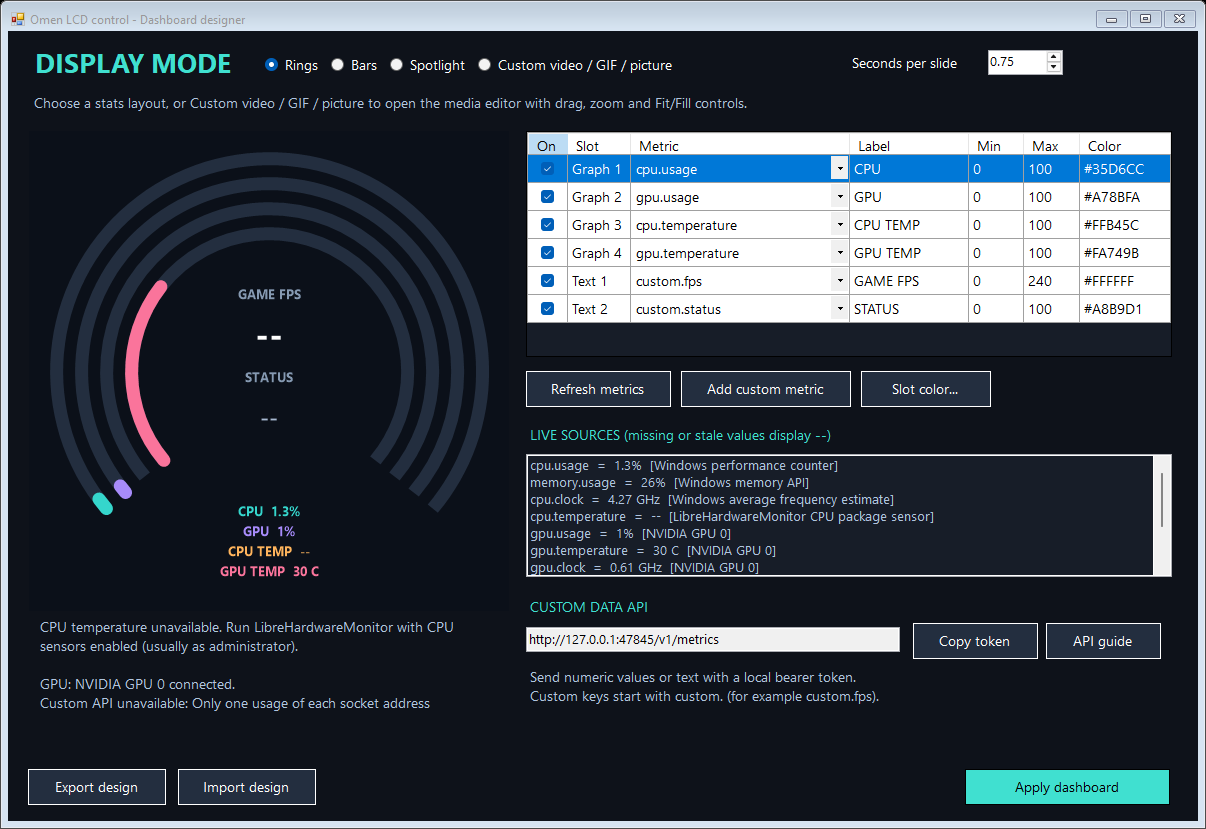
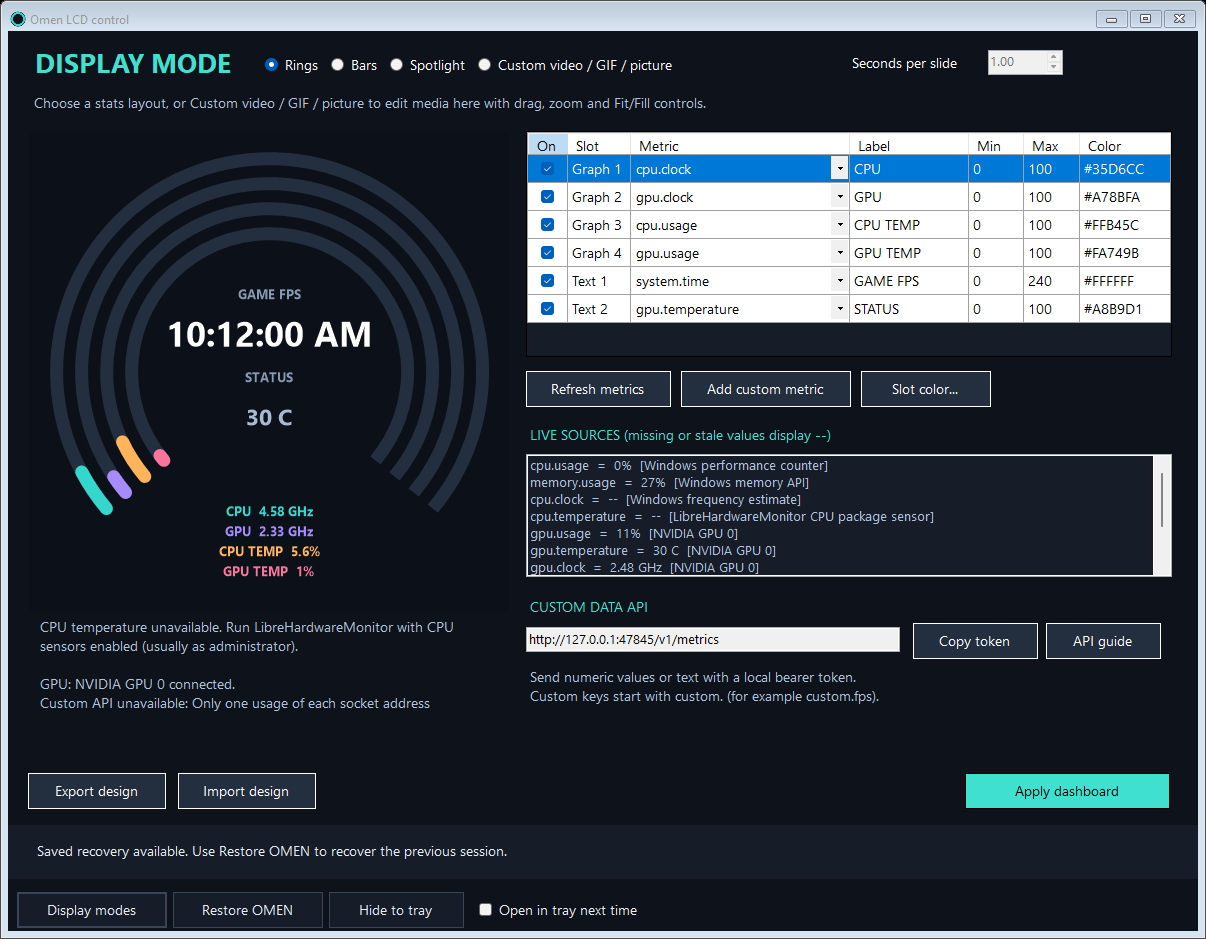
fixed the video panel opening a window

diff --git a/src/MainForm.cs b/src/MainForm.cs
@@ -23,6 +23,7 @@ namespace OmenLCDControl {
         private readonly CheckBox startInTray;
         private readonly System.Windows.Forms.Timer statsTimer;
         private DashboardRuntime dashboard;
+        private readonly DashboardForm studio;
         private readonly Stopwatch dashboardClock = Stopwatch.StartNew();
         private CancellationTokenSource operation;
         private string source;
@@ -43,7 +44,7 @@ namespace OmenLCDControl {
             state.Transform.Fps = Math.Max(1, Math.Min(30, state.Transform.Fps));
             preview.Transform = state.Transform;
             Text = "Omen LCD control"; Font = new Font("Segoe UI", 10); ForeColor = Color.FromArgb(231, 237, 246);
-            BackColor = Color.FromArgb(14, 18, 26); ClientSize = new Size(1030, 700); MinimumSize = new Size(950, 700);
+            BackColor = Color.FromArgb(14, 18, 26); ClientSize = new Size(1190, 900); MinimumSize = new Size(1130, 820);
             AutoScaleMode = AutoScaleMode.Dpi; StartPosition = FormStartPosition.CenterScreen;
             Icon = CreateIcon(); AllowDrop = true;
 
@@ -55,7 +56,7 @@ namespace OmenLCDControl {
             Controls.Add(status);
             var content = new Panel { Dock = DockStyle.Fill, Padding = new Padding(20, 6, 20, 16) };
             Controls.Add(content); content.BringToFront();
-            var sidebar = new Panel { Dock = DockStyle.Right, Width = 320, BackColor = PanelColor, Padding = new Padding(16) };
+            var sidebar = new Panel { AutoScroll = true, AutoScrollMinSize = new Size(304, 515), Dock = DockStyle.Right, Width = 320, BackColor = PanelColor, Padding = new Padding(16) };
             content.Controls.Add(sidebar);
             var canvasArea = new Panel { Dock = DockStyle.Fill, Padding = new Padding(0, 0, 18, 0) };
             content.Controls.Add(canvasArea); canvasArea.BringToFront();
@@ -79,16 +80,25 @@ namespace OmenLCDControl {
             AddLabel(sidebar, "Horizontal", 309, false).Width = 130; var yl = AddLabel(sidebar, "Vertical", 309, false); yl.Left = 166; yl.Width = 130;
             x = AddNumber(sidebar, 16, 337, -480, 480, state.Transform.OffsetX); y = AddNumber(sidebar, 166, 337, -480, 480, state.Transform.OffsetY);
             x.AccessibleName = "Horizontal offset in screen pixels"; y.AccessibleName = "Vertical offset in screen pixels";
-            AddLabel(sidebar, "Playback FPS", 383, false); fps = AddNumber(sidebar, 166, 379, 1, 30, state.Transform.Fps); fps.AccessibleName = "Playback frame rate";
+            AddLabel(sidebar, "Playback FPS", 383, false).Width = 140; fps = AddNumber(sidebar, 166, 379, 1, 30, state.Transform.Fps); fps.AccessibleName = "Playback frame rate";
             apply = AddButton(sidebar, "Apply to cooler screen", 427, 288, true);
             cancel = AddButton(sidebar, "Cancel conversion", 476, 288, false); cancel.Visible = false;
 
-            var tools = new FlowLayoutPanel { Dock = DockStyle.Bottom, Height = 88, Padding = new Padding(6, 10, 6, 0), BackColor = BackColor };
+            var tools = new FlowLayoutPanel { Dock = DockStyle.Bottom, Height = 52, Padding = new Padding(6, 10, 6, 0), BackColor = BackColor };
             stats = new Button { Text = "Display modes", Width = 150, Height = 36 }; StyleButton(stats, false); tools.Controls.Add(stats);
             restore = new Button { Text = "Restore OMEN", Width = 150, Height = 36 }; StyleButton(restore, false); tools.Controls.Add(restore);
             var hide = new Button { Text = "Hide to tray", Width = 135, Height = 36 }; StyleButton(hide, false); tools.Controls.Add(hide);
             startInTray = new CheckBox { Text = "Open in tray next time", AutoSize = true, Margin = new Padding(12, 10, 3, 3), Checked = state.StartInTray }; tools.Controls.Add(startInTray);
-            canvasArea.Controls.Add(tools); preview.BringToFront();
+            Controls.Add(tools); preview.BringToFront();
+            header.Dispose();
+            dashboard = new DashboardRuntime();
+            studio = new DashboardForm(dashboard, state.Dashboard, async config => {
+                if (busy) throw new InvalidOperationException("Wait for the current operation to finish.");
+                var previous = state.Dashboard;
+                try { state.Dashboard = config; await StartStats(); Save(); }
+                catch { state.Dashboard = previous; throw; }
+            }, content) { Dock = DockStyle.Fill };
+            Controls.Add(studio); studio.BringToFront();
 
             var menu = new ContextMenuStrip(); menu.Items.Add("Open editor", null, (s, e) => ShowEditor());
             menu.Items.Add("Restore OMEN", null, async (s, e) => await Restore()); menu.Items.Add(new ToolStripSeparator());
@@ -182,7 +192,7 @@ namespace OmenLCDControl {
             finally { operation.Dispose(); operation = null; SetBusy(false); }
         }
         private async Task Restore() {
-            if (busy) return; SetBusy(true);
+            if (busy || studio.IsApplying) return; SetBusy(true);
             try { await statsWork; await Task.Run(() => backend.Restore()); statsTimer.Stop(); tray.Text = "Omen LCD control"; SetStatus("Original OMEN settings restored."); }
             catch (Exception e) { Error(e); } finally { SetBusy(false); }
         }
@@ -197,24 +207,9 @@ namespace OmenLCDControl {
         private void DrawStats() {
             using (var image = DashboardRenderer.Render(state.Dashboard, dashboard.Hub.Snapshot(), dashboardClock.Elapsed.TotalSeconds, DateTime.UtcNow)) DashboardRenderer.SaveAtomic(image, livePath);
         }
-        private void ShowDashboard(bool selectMediaForSmoke = false) {
-            if (busy) return;
-            if (dashboard == null) dashboard = new DashboardRuntime();
-            using (var designer = new DashboardForm(dashboard, state.Dashboard, async config => {
-                if (busy) throw new InvalidOperationException("Wait for the current operation to finish.");
-                var previous = state.Dashboard;
-                try { state.Dashboard = config; await StartStats(); Save(); }
-                catch { state.Dashboard = previous; throw; }
-            })) {
-                if (selectMediaForSmoke) designer.Shown += (s,e) => designer.BeginInvoke((Action)designer.SelectCustomMediaForSmoke);
-                if (designer.ShowDialog(this) == DialogResult.Retry) {
-                    ShowEditor(); open.Focus();
-                    SetStatus("Custom media mode: choose a GIF, video, or picture, adjust its position and zoom, then click Apply to cooler screen.");
-                }
-            }
-        }
+        private void ShowDashboard() { if (!busy) { ShowEditor(); studio.SelectStats(); } }
         private async Task StartStats() {
-            if (busy) return; SetBusy(true);
+            if (busy) throw new InvalidOperationException("Wait for the current operation to finish."); SetBusy(true);
             try { await statsWork; dashboardClock.Restart(); await Task.Run(() => { DrawStats(); backend.Apply(livePath, 25); }); statsTimer.Start(); tray.Text = "Omen LCD control - dashboard active"; SetStatus("Custom dashboard is on the cooler. Metrics and custom data keep updating in the tray."); }
             finally { SetBusy(false); }
         }
@@ -223,13 +218,18 @@ namespace OmenLCDControl {
             try { statsWork = Task.Run(() => DrawStats()); await statsWork; } catch (Exception e) { statsTimer.Stop(); AppState.Log(e); SetStatus("Stats stopped: " + e.Message); }
             finally { statsUpdating = false; }
         }
-        internal void RenderSmoke(string path, string sample) {
+        internal void RenderSmoke(string path, string sample, bool statsView = false) {
             if (sample != null && File.Exists(sample)) { using (var image = Image.FromFile(sample)) preview.SetMedia((Image)image.Clone()); fileLabel.Text = Path.GetFileName(sample); }
             Show(); Application.DoEvents();
             Close(); if (IsDisposed || Visible) throw new Exception("Close-to-tray smoke test failed.");
             Show(); Application.DoEvents();
-            ShowDashboard(true);
-            if (!Visible || !open.Enabled || !status.Text.StartsWith("Custom media mode:")) throw new Exception("Custom media display-mode navigation failed.");
+            studio.ShowMedia(); Application.DoEvents();
+            if (!Visible || !open.Enabled || open.FindForm() != this || studio.FindForm() != this) throw new Exception("Media editor is not in the main window.");
+            if (fps.Bottom > fps.Parent.ClientSize.Height || !fps.Visible) throw new Exception("Playback FPS is outside the visible media controls.");
+            var originalSize=Size; Size=MinimumSize; Application.DoEvents();
+            if (fps.Bottom > fps.Parent.ClientSize.Height || !fps.Visible || fps.Right > fps.Parent.ClientSize.Width) throw new Exception("Playback FPS is clipped at minimum window size.");
+            Size=originalSize; Application.DoEvents();
+            if (statsView) { studio.SelectStats(); var wait = Stopwatch.StartNew(); while(wait.ElapsedMilliseconds < 1800) { Application.DoEvents(); Thread.Sleep(20); } }
             using (var bitmap = new Bitmap(Width, Height)) { DrawToBitmap(bitmap, new Rectangle(0, 0, Width, Height)); bitmap.Save(path, ImageFormat.Png); }
             exiting = true; Close();
         }

diff --git a/src/DashboardForm.cs b/src/DashboardForm.cs
@@ -9,7 +9,7 @@ using System.Web.Script.Serialization;
 using System.Windows.Forms;
 
 namespace OmenLCDControl {
-    public sealed class DashboardForm : Form {
+    public sealed class DashboardForm : UserControl {
         private readonly DashboardRuntime runtime;
         private DashboardConfig config;
         private readonly Func<DashboardConfig,Task> activate;
@@ -21,28 +21,31 @@ namespace OmenLCDControl {
         private readonly Label information;
         private readonly ListBox readings;
         private readonly RadioButton customMedia;
+        private readonly Control mediaEditor;
+        private readonly Panel body, footer;
+        internal bool IsApplying { get { return applying; } }
         private readonly Timer timer=new Timer{Interval=100};
         private readonly Stopwatch clock=Stopwatch.StartNew();
         private bool applying;
         private int ticks;
-        public DashboardForm(DashboardRuntime service,DashboardConfig settings,Func<DashboardConfig,Task> apply){
-            runtime=service;activate=apply;var json=new JavaScriptSerializer();config=json.Deserialize<DashboardConfig>(json.Serialize(settings));
+        public DashboardForm(DashboardRuntime service,DashboardConfig settings,Func<DashboardConfig,Task> apply,Control mediaContent=null){
+            runtime=service;activate=apply;mediaEditor=mediaContent;var json=new JavaScriptSerializer();config=json.Deserialize<DashboardConfig>(json.Serialize(settings));
             Text="Omen LCD control - Dashboard designer";Font=new Font("Segoe UI",10);BackColor=Color.FromArgb(14,18,26);ForeColor=Color.White;
-            ClientSize=new Size(1190,790);MinimumSize=new Size(1100,820);StartPosition=FormStartPosition.CenterParent;
+            Size=new Size(1190,790);AutoScaleMode=AutoScaleMode.Dpi;
             var header=new Panel{Dock=DockStyle.Top,Height=96,Padding=new Padding(18)};Controls.Add(header);
             header.Controls.Add(new Label{Text="DISPLAY MODE",Left=20,Top=12,Width=220,Height=35,Font=new Font("Segoe UI",20,FontStyle.Bold),ForeColor=Color.Turquoise});
             selectedLayout=config.Layout;
             var layoutPanel=new FlowLayoutPanel{Left=254,Top=19,Width=575,Height=32};header.Controls.Add(layoutPanel);
-            foreach(string name in new[]{"Rings","Bars","Spotlight"}){var choice=new RadioButton{Text=name,AutoSize=true,Checked=name==selectedLayout,ForeColor=Color.White};choice.CheckedChanged+=(s,e)=>{if(choice.Checked)selectedLayout=choice.Text;};layoutChoices.Add(choice);layoutPanel.Controls.Add(choice);}
+            foreach(string name in new[]{"Rings","Bars","Spotlight"}){var choice=new RadioButton{Text=name,AutoSize=true,Checked=name==selectedLayout,ForeColor=Color.White};choice.CheckedChanged+=(s,e)=>{if(choice.Checked){selectedLayout=choice.Text;ShowStats();}};layoutChoices.Add(choice);layoutPanel.Controls.Add(choice);}
             customMedia=new RadioButton{Text="Custom video / GIF / picture",AutoSize=true,ForeColor=Color.White};layoutPanel.Controls.Add(customMedia);
-            customMedia.Click+=(s,e)=>{if(!applying){DialogResult=DialogResult.Retry;Close();}else customMedia.Checked=false;};
+            customMedia.CheckedChanged+=(s,e)=>{if(customMedia.Checked)ShowMedia();};
             header.Controls.Add(new Label{Text="Seconds per slide",Left=840,Top=22,Width=140,Height=25});
             slide=new NumericUpDown{Left=980,Top=19,Width=75,DecimalPlaces=2,Increment=.05m,Minimum=.5m,Maximum=1,Value=(decimal)config.SlideSeconds};header.Controls.Add(slide);
-            header.Controls.Add(new Label{Text="Choose a stats layout, or Custom video / GIF / picture to open the media editor with drag, zoom and Fit/Fill controls.",Left=22,Top=62,Width=1140,Height=27,ForeColor=Color.LightSteelBlue});
-            var footer=new Panel{Dock=DockStyle.Bottom,Height=66};Controls.Add(footer);
+            header.Controls.Add(new Label{Text="Choose a stats layout, or Custom video / GIF / picture to edit media here with drag, zoom and Fit/Fill controls.",Left=22,Top=62,Width=1140,Height=27,ForeColor=Color.LightSteelBlue});
+            footer=new Panel{Dock=DockStyle.Bottom,Height=66};Controls.Add(footer);
             var save=Button("Export design",20,14,138,footer);var load=Button("Import design",170,14,138,footer);
             var activateButton=Button("Apply dashboard",957,14,205,footer);activateButton.Anchor=AnchorStyles.Right|AnchorStyles.Top;activateButton.BackColor=Color.Turquoise;activateButton.ForeColor=Color.Black;
-            var body=new Panel{Dock=DockStyle.Fill,Padding=new Padding(16,0,16,0)};Controls.Add(body);body.BringToFront();
+            body=new Panel{Dock=DockStyle.Fill,AutoScroll=true,AutoScrollMinSize=new Size(1100,610),Padding=new Padding(16,0,16,0)};Controls.Add(body);body.BringToFront();
             var left=new Panel{Dock=DockStyle.Left,Width=490};body.Controls.Add(left);
             picture=new PictureBox{Left=5,Top=4,Width=480,Height=480,SizeMode=PictureBoxSizeMode.Zoom};left.Controls.Add(picture);
             information=new Label{Left=12,Top=490,Width=465,Height=112,ForeColor=Color.LightSteelBlue};left.Controls.Add(information);
@@ -71,7 +74,8 @@ namespace OmenLCDControl {
             save.Click+=(s,e)=>{try{ReadGrid();using(var dialog=new SaveFileDialog{Filter="Dashboard JSON|*.json",FileName="my-dashboard.json"})if(dialog.ShowDialog(this)==DialogResult.OK)File.WriteAllText(dialog.FileName,json.Serialize(config));}catch(Exception ex){MessageBox.Show(this,ex.Message);}};
             load.Click+=(s,e)=>{try{using(var dialog=new OpenFileDialog{Filter="Dashboard JSON|*.json"})if(dialog.ShowDialog(this)==DialogResult.OK){if(new FileInfo(dialog.FileName).Length>65536)throw new ArgumentException("Design file is too large.");var imported=json.Deserialize<DashboardConfig>(File.ReadAllText(dialog.FileName));imported.Validate();config=imported;selectedLayout=config.Layout;foreach(var choice in layoutChoices)choice.Checked=choice.Text==selectedLayout;slide.Value=(decimal)config.SlideSeconds;FillGrid();}}catch(Exception ex){MessageBox.Show(this,ex.Message);}};
             activateButton.Click+=async(s,e)=>{if(applying)return;try{ReadGrid();applying=true;activateButton.Enabled=false;await activate(json.Deserialize<DashboardConfig>(json.Serialize(config)));information.Text="Dashboard is live on your cooler. You can close this designer; it keeps running in the tray.";}catch(Exception ex){MessageBox.Show(this,ex.Message,"Dashboard could not apply");}finally{applying=false;activateButton.Enabled=true;}};
-            timer.Tick+=(s,e)=>TickPreview();timer.Start();FormClosing+=(s,e)=>{if(applying)e.Cancel=true;};FormClosed+=(s,e)=>{timer.Dispose();if(picture.Image!=null)picture.Image.Dispose();};
+            if(mediaEditor!=null){mediaEditor.Dock=DockStyle.Fill;Controls.Add(mediaEditor);mediaEditor.Visible=false;}
+            timer.Tick+=(s,e)=>TickPreview();timer.Start();Disposed+=(s,e)=>{timer.Dispose();if(picture.Image!=null)picture.Image.Dispose();};
         }
         private Button Button(string text,int left,int top,int width,Control parent){var b=new Button{Text=text,Left=left,Top=top,Width=width,Height=36,BackColor=Color.FromArgb(35,46,63),ForeColor=Color.White,FlatStyle=FlatStyle.Flat};parent.Controls.Add(b);return b;}
         private void RefreshMetricChoices(){
@@ -99,7 +103,8 @@ namespace OmenLCDControl {
                 if(dialog.ShowDialog(this)==DialogResult.OK){try{if(!MetricHub.ValidId(id.Text)||!id.Text.StartsWith("custom.")||label.Text.Length>48||unit.Text.Length>16)throw new ArgumentException("Use a valid custom. ID, label <=48 characters and unit <=16 characters.");runtime.Hub.Register(id.Text,label.Text,unit.Text,"Custom API");ReadGrid();RefreshMetricChoices();}catch(Exception e){MessageBox.Show(this,e.Message);}}
             }
         }
-        internal void RenderSmoke(string path){Show();var wait=Stopwatch.StartNew();while(wait.ElapsedMilliseconds<1800){Application.DoEvents();System.Threading.Thread.Sleep(20);}ticks=9;TickPreview();Application.DoEvents();using(var image=new Bitmap(Width,Height)){DrawToBitmap(image,new Rectangle(0,0,Width,Height));image.Save(path,System.Drawing.Imaging.ImageFormat.Png);}Close();}
-        internal void SelectCustomMediaForSmoke(){customMedia.PerformClick();}
+        private void ShowStats(){if(body==null)return;if(mediaEditor!=null)mediaEditor.Visible=false;slide.Enabled=selectedLayout=="Spotlight";body.Visible=true;footer.Visible=true;body.BringToFront();}
+        internal void ShowMedia(){if(body==null||mediaEditor==null)return;customMedia.Checked=true;slide.Enabled=false;body.Visible=false;footer.Visible=false;mediaEditor.Visible=true;mediaEditor.BringToFront();}
+        internal void SelectStats(){layoutChoices.Find(choice=>choice.Text==selectedLayout).Checked=true;ShowStats();}
     }
 }

diff --git a/src/Program.cs b/src/Program.cs
@@ -12,7 +12,7 @@ namespace OmenLCDControl {
             if (args.Length >= 2 && args[0] == "--self-test") return SelfTests.Run(args[1]);
             if (args.Length >= 2 && args[0] == "--render-dashboards") { DashboardTests.RenderExamples(args[1]); return 0; }
             if (args.Length >= 2 && args[0] == "--dashboard-smoke") {
-                using (var runtime = new DashboardRuntime()) using (var form = new DashboardForm(runtime,new DashboardConfig(),config=>System.Threading.Tasks.Task.FromResult(0))) form.RenderSmoke(args[1]);
+                using (var form = new MainForm()) form.RenderSmoke(args[1], null, true);
                 return 0;
             }
             if (args.Length >= 2 && args[0] == "--smoke-test") {

diff --git a/src/AssemblyInfo.cs b/src/AssemblyInfo.cs
@@ -3,5 +3,5 @@ using System.Reflection;
 [assembly: AssemblyTitle("Omen LCD control")]
 [assembly: AssemblyDescription("Community cooler screen editor for compatible HP OMEN desktops")]
 [assembly: AssemblyProduct("Omen LCD control")]
-[assembly: AssemblyVersion("0.3.2.0")]
-[assembly: AssemblyFileVersion("0.3.2.0")]
+[assembly: AssemblyVersion("0.3.3.0")]
+[assembly: AssemblyFileVersion("0.3.3.0")]

diff --git a/README.md b/README.md
@@ -12,7 +12,7 @@ Run `OmenLCDControl.exe` from the portable release folder. No installation or ad
 
 If you still have the earlier PowerShell controller open, restore and close it before using this app.
 
-1. Click **Display modes** to choose **Rings**, **Bars**, **Spotlight**, or **Custom video / GIF / picture**. The fourth option opens the media editor. Click **Choose GIF, video, or image**, or drop a file into the editor.
+1. Choose **Rings**, **Bars**, **Spotlight**, or **Custom video / GIF / picture** across the top of the main window. All four modes share that window. In custom media mode, click **Choose GIF, video, or image**, or drop a file into the editor.
 2. Drag it inside the round preview. Scroll or use the slider to resize it. Fit and Fill provide starting layouts; horizontal and vertical controls allow precise positioning.
 3. Click **Apply to cooler screen**. Conversion runs in the background and can be cancelled before the display settings change.
 4. Close the window or click **Hide to tray** to keep it running. Double-click the teal ring in the Windows system tray to reopen it.
@@ -22,7 +22,7 @@ GIF previews animate. Video previews show a poster frame; the full video loops o
 
 **Display modes** presents all four options together: Rings, Bars, Spotlight (one metric per slide, 0.5–1 second), and Custom video / GIF / picture. For stats, assign six slots, set colors and graph ranges, disable fields, and import/export designs. CPU/RAM usage, CPU speed, GPU usage/temperature/clock/VRAM, local time, and custom numeric/text data are available. CPU temperature requires a running LibreHardwareMonitor sensor provider. NVIDIA GPU metrics use the installed NVIDIA tools.
 
-Custom media supports animated GIFs, videos (MP4, MKV, AVI, MOV, WebM), and still pictures (JPG, PNG, BMP). Drag and zoom, use Fit/Fill, then **Apply to cooler screen**. Selecting an option alone does not replace current playback; the selected media or stats take over when you click its Apply button. Return to **Display modes** whenever you want to switch back to stats.
+Custom media supports animated GIFs, videos (MP4, MKV, AVI, MOV, WebM), and still pictures (JPG, PNG, BMP). Drag and zoom, use Fit/Fill, set **Playback FPS** in the right sidebar, then **Apply to cooler screen**. Selecting an option alone does not replace current playback; the selected media or stats take over when you click its Apply button. Switch back to any stats layout using the same mode selector. Media controls have a scrollable sidebar for smaller windows, with Playback FPS fully visible at the supported minimum window size.
 
 Read [the dashboard guide](docs/dashboards.md) and [custom data API guide](docs/custom-data.md). Game FPS and other custom values must be supplied by your own telemetry integration. The API runs on loopback with a bearer token while Stats studio or a dashboard session is active. Closing the windows keeps it running in the tray.
 
@@ -89,7 +89,7 @@ Unit checks cover composition geometry, actual still-image pixels, unknown JSON 
 
 ## Project status
 
-Version **0.3.2**, early community prototype. The portable executable is unsigned. The app has been tested on one PC, rather than across the OMEN product range.
+Version **0.3.3**, early community prototype. The portable executable is unsigned. The app has been tested on one PC, rather than across the OMEN product range.
 
 Dashboard validation covers numeric/text ingestion, stale readings, protected system metrics, authenticated HTTP, graph ranges, all three renderers and slide advancement. Live Windows/NVIDIA readings and changing source frames were checked on the test PC, with exact HP configuration restoration. This HP transport does not expose refreshed Image-mode output files, so physical LCD updates still need user verification. The Image-mode timer runs approximately twice per second; fast Spotlight transitions will be less smooth than the preview.
 

diff --git a/docs/dashboards.md b/docs/dashboards.md
@@ -1,6 +1,6 @@
 # Design a stats screen
 
-Open **Display modes**, choose a stats layout, assign metrics, and click **Apply dashboard**. The fourth option, **Custom video / GIF / picture**, opens the media editor, where you can choose a file, drag/zoom, use Fit/Fill, and click **Apply to cooler screen**. Close the designer and editor to continue in the tray. Applying a media file replaces the dashboard. Return to Display modes to switch back to stats. Restore OMEN returns the saved HP settings.
+Choose a stats layout across the top of the main window, assign metrics, and click **Apply dashboard**. The fourth option, **Custom video / GIF / picture**, switches that same window to the media editor, where you can choose a file, drag/zoom, use Fit/Fill, set Playback FPS, and click **Apply to cooler screen**. Close the window to continue in the tray. Applying a media file replaces the dashboard. Choose a stats layout to switch back in place. Restore OMEN returns the saved HP settings.
 
 * **Rings:** four concentric gauges with matching legends, plus two center fields.
 * **Bars:** four horizontal gauges, plus two footer fields.

diff --git a/docs/custom-data.md b/docs/custom-data.md
@@ -1,6 +1,6 @@
 # Stream custom data
 
-Open **Display modes** to start the stats studio and local API. It stays active while the app is in the tray. The endpoint is `http://127.0.0.1:47845/v1/metrics`. Click **Copy token** in the designer. The same token is stored in `%LOCALAPPDATA%\OmenScreen\api-token.txt`; do not publish it.
+The local API starts with the app and stays active while it is in the tray. The endpoint is `http://127.0.0.1:47845/v1/metrics`. Choose a stats layout and click **Copy token** in the main window. The same token is stored in `%LOCALAPPDATA%\OmenScreen\api-token.txt`; do not publish it.
 
 Send JSON with an `Authorization: Bearer YOUR_TOKEN` header:
 

diff --git a/docs/releases/v0.3.3.md b/docs/releases/v0.3.3.md
@@ -1,0 +1,7 @@
+# Omen LCD control v0.3.3
+
+Rings, Bars, Spotlight and Custom video / GIF / picture now share one main window. Selecting custom media switches the content in place, keeping the mode selector and tray/recovery controls available.
+
+Playback FPS has its own label/input space in the media sidebar. The sidebar can scroll on smaller windows, and the input is checked for visibility at both default and minimum supported window sizes.
+
+Existing settings, recovery backups and API tokens remain compatible. CPU temperature requires LibreHardwareMonitor, custom FPS requires a sender, and HP Image-mode dashboard refresh remains roughly 2 Hz.

diff --git a/CHANGELOG.md b/CHANGELOG.md
@@ -1,5 +1,13 @@
 # Changelog
 
+## 0.3.3 — 2026-10-10
+
+- Integrated stats and GIF/video/picture editing into a single main window; mode selection no longer opens or swaps between windows.
+- Kept restore, tray and startup controls available beneath every mode.
+- Fixed overlapping Playback FPS label/input and added a scrollable media sidebar.
+- Verified media mode stays in the main window and FPS remains visible at default and minimum supported window sizes.
+- Refreshed guides, screenshots and portable/source releases.
+
 ## 0.3.2 — 2026-10-10
 
 - Added Custom video / GIF / picture as a fourth choice alongside Rings, Bars and Spotlight.
